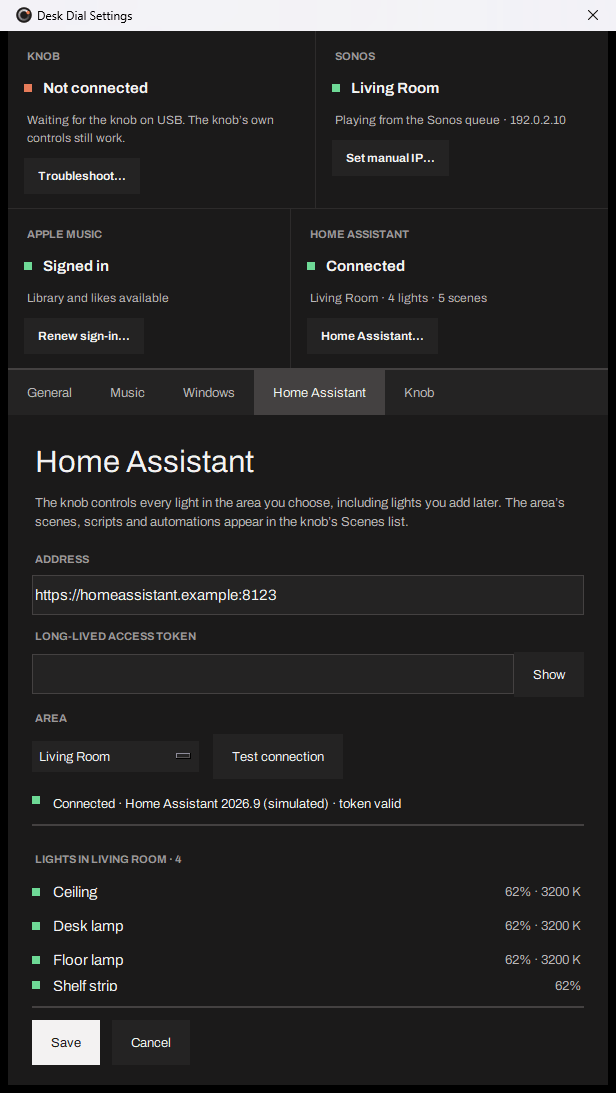
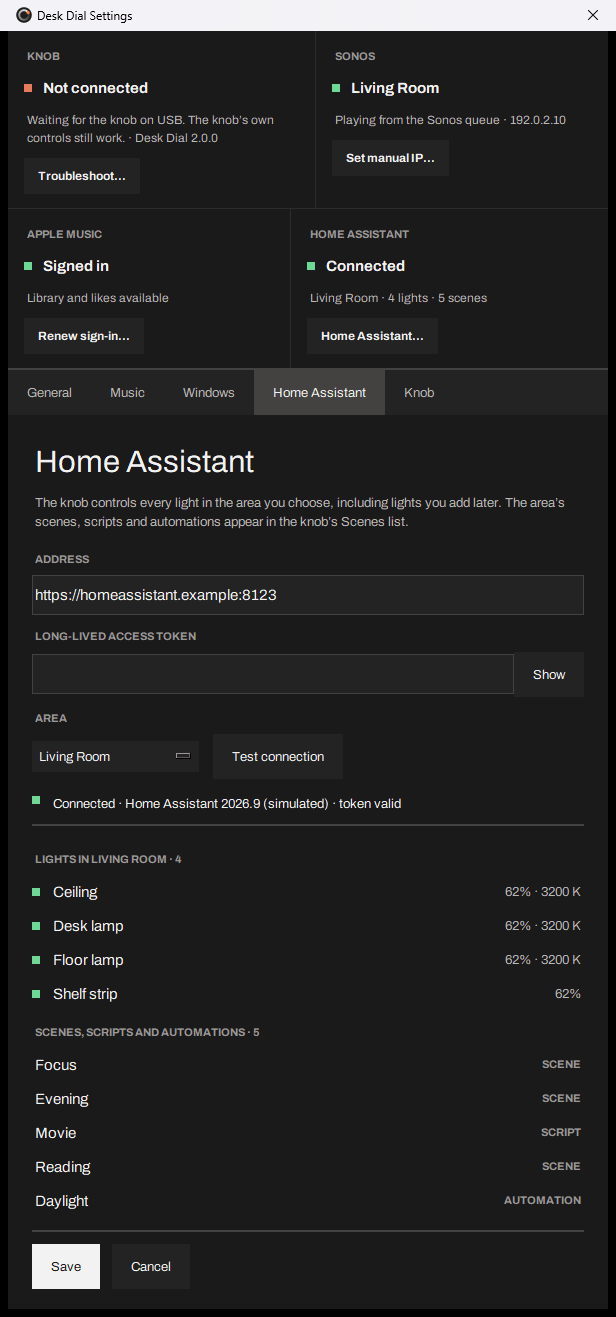
docs: Settings screenshots re-captured after the deep-dive fixes; obsolete 'being fixed' and Apple-first notes removed; Sonos room behaviour described

diff --git a/docs/features/settings.md b/docs/features/settings.md
@@ -24,7 +24,7 @@ The Navigator is the small glass card at the left edge of your main monitor that
 <p><img src="../media/settings-music.png" alt="Desk Dial Settings, Music page: the speaker IP, Apple Team ID and MusicKit Key ID fields with placeholder values, Choose .p8 key, Album artwork On, Authorize Apple Music" width="420"></p>
 **Speaker IP** · a text field · default a placeholder address
 
-The IPv4 address of one Sonos speaker on your network, for example 192.0.2.20. You find it in the Sonos app under the speaker's About settings. Desk Dial controls the group that speaker belongs to. There is no discovery: the address has to be typed. A changed address takes effect after you quit Desk Dial from the tray and open it again. (In this build the field's label still carries a room name from the author's own home; it is being generalised.)
+The IPv4 address of one Sonos speaker on your network, for example 192.0.2.20. You find it in the Sonos app under the speaker's About settings. Desk Dial controls the group that speaker belongs to. There is no discovery: the address has to be typed. A changed address takes effect after you quit Desk Dial from the tray and open it again.
 
 **Apple Team ID** · a text field
 
@@ -144,7 +144,6 @@ These are plain keys in `data\settings.json`. Edit the file while Desk Dial is n
 
 - Most changes need a reconnect or a restart; only album artwork, LEDs, Motion, the switcher background and Knob sounds apply at once.
 - No speaker discovery: the Sonos address is typed by hand, and a changed address needs a restart.
-- Being fixed: a default room identifier in the settings makes a different Sonos household fail with "The selected Sonos room is no longer available".
 - The speaker field is still labelled with the author's room name.
 - The Home Assistant token travels unencrypted over `http://`; Settings warns about it but still allows it.
 - Recalibrate motor is not yet tested on real hardware.

diff --git a/docs/setup/sonos.md b/docs/setup/sonos.md
@@ -31,7 +31,7 @@ Desk Dial does not search the network for speakers. You type the address yoursel
 3. Type the address in the speaker IP field at the top. It must be a valid IP address; otherwise Save refuses with "Enter a valid speaker IP and each index 0, 1, 2, 3 once."
 4. Click Save.
 
-A speaker change does not take effect straight away. The note under Save says so: quit Desk Dial from the tray and open it again. After that, the new speaker is used.
+Once the speaker answers, Desk Dial remembers which room it is, and forgets that room as soon as you change the address, so the new speaker's room is learned instead. A speaker change does not take effect straight away. The note under Save says so: quit Desk Dial from the tray and open it again. After that, the new speaker is used.
 
 Your speaker IP is kept in plain text in `%LOCALAPPDATA%\DeskDial\data\settings.json`. No password or account is needed for Sonos, so none is stored.
 
@@ -63,7 +63,6 @@ Nothing to open. Desk Dial only makes outgoing connections to the speaker and as
 
 ## Limits and known issues
 
-- **Being fixed:** the current build ships with the author's own speaker pinned by its Sonos identity. On another household this makes the knob report "The selected Sonos room is no longer available" instead of using the address you typed. The fix removes the pinned identity so the typed address is used as intended.
 - There is no speaker discovery. You must find and type the address yourself, and if your router hands the speaker a new address the knob stops working until you update Settings.
 - A speaker change needs a restart of Desk Dial (quit from the tray, open again).
 - One speaker group at a time. Other groups are not shown and cannot be chosen from the knob.

diff --git a/docs/setup/apple-music.md b/docs/setup/apple-music.md
@@ -88,7 +88,6 @@ When Apple refuses the user token, Desk Dial shows **Sign-in expired** in the Se
 ## Limits and known issues
 
 - **The only thing Desk Dial writes to Apple Music is Like.** It adds the song to your Favourites. There is no Unlike: Apple refused that request for this kind of sign-in, so Desk Dial does not even contain the code for it. On a song you already liked, the knob says **Unfavourite in Music app**; do it there.
-- **Re-authorising with a new .p8 key clears the saved Home Assistant token.** Choosing a key file and pressing Authorize replaces the whole credential file with the new Apple credentials, so a Home Assistant token stored there is lost and you must enter it again in Settings › Home Assistant. Pressing Authorize *without* choosing a new key file keeps everything. Set up Apple Music first, then Home Assistant.
 - **Apple's consent page needs an internet connection** to load Apple's MusicKit script. If the page says "Apple Music could not load", check your connection and retry.
 - **One account per PC.** Desk Dial stores one set of Apple credentials. Authorising with another Apple ID replaces the first.
 - **Windows only.** The encrypted store uses Windows DPAPI; there is no equivalent on other systems.

diff --git a/docs/media/README.md b/docs/media/README.md
@@ -51,11 +51,11 @@ Rendered by `tools/readme-media/render_all.py` from fictional data (see `tools/r
 | navigator.webp | 1,193,242 | 1120x630 | 185 | 13.54 |
 | onshape-knob.gif | 172,718 | 418x484 | 55 | 5.8 |
 | onshape-knob.webp | 200,518 | 418x484 | 75 | 7.73 |
-| settings-general.png | 16,606 | 616x890 | 1 |  |
-| settings-home-assistant.png | 22,597 | 616x1093 | 1 |  |
-| settings-knob.png | 25,940 | 616x1392 | 1 |  |
-| settings-music.png | 18,905 | 616x1093 | 1 |  |
-| settings-windows.png | 15,260 | 616x1093 | 1 |  |
+| settings-general.png | 17,229 | 616x890 | 1 |  |
+| settings-home-assistant.png | 26,049 | 616x1317 | 1 |  |
+| settings-knob.png | 26,291 | 616x1392 | 1 |  |
+| settings-music.png | 19,131 | 616x1093 | 1 |  |
+| settings-windows.png | 15,520 | 616x1093 | 1 |  |
 | social-preview.png | 61,863 | 1280x640 | 1 |  |
 | sound-bank-dark.png | 63,263 | 1100x674 | 1 |  |
 | sound-bank.png | 59,148 | 1100x674 | 1 |  |

diff --git a/docs/setup/home-assistant.md b/docs/setup/home-assistant.md
@@ -95,6 +95,5 @@ Everything else in Desk Dial works without it: music, the Windows picker and Ons
 - **One area, lights only.** Switches, covers, fans and media players in the area are ignored. Colour (hue) is not controlled, only brightness and colour temperature.
 - **Plain http sends the token unencrypted** on your local network. Settings warns about it; use https where you can.
 - **Self-signed certificates are rejected.** Certificate checking is always on and there is no override. Use a trusted certificate or http on a network you trust.
-- **Re-authorising Apple Music with a new .p8 key erases the saved Home Assistant token.** You will see **Token rejected** or **Not connected** afterwards; paste the token again and Save. Set up Apple Music first.
 - **At most 20 scenes** are listed.
 - The project is tested on one knob (the author's) against one Home Assistant installation.

diff --git a/docs/faq.md b/docs/faq.md
@@ -118,7 +118,6 @@ Never attach anything from `data\`, `backups\` or the `credentials.bin` file. Th
 - Windows 10/11 only.
 - Exactly one knob per PC.
 - The offline Windows-volume mode of the firmware has not yet been tested on real hardware.
-- Sonos: a built-in default for the speaker's room can make other households fail with "The selected Sonos room is no longer available". This is being fixed.
 - Onshape: Chrome and Edge only; keyboard shortcuts are sent as US-layout virtual keys, so other keyboard layouts are unverified.
 - The program is unsigned; SmartScreen warns on the first start and Smart App Control may block it.
 - The Home Assistant token crosses your network unencrypted when the address starts with `http://`; Settings shows a warning under the address when it does.

diff --git a/README.md b/README.md
@@ -271,7 +271,6 @@ Full list in the [CHANGELOG](CHANGELOG.md).
 ## Limits and known issues
 
 - Tested on one knob, mine. Other knobs may need "Recalibrate motor"; that path is not yet tested on real hardware.
-- Sonos: a default room id can make a different household fail with "The selected Sonos room is no longer available" — being fixed.
 - Home Assistant over `http://` sends the token unencrypted on your network (Settings warns about it); self-signed `https://` is not yet tested on real hardware.
 - The exe is unsigned; Smart App Control can block it. No installer, auto-start or uninstaller ships today.
 - Onshape: Chrome and Edge only; tilt direction, tool search hits and non-US keyboard layouts are unverified; shortcuts are sent as US virtual keys.

diff --git a/docs/features/music.md b/docs/features/music.md
@@ -208,5 +208,4 @@ Every line the knob can show in Music, in one sentence each.
 - Playlists shows only playlists you have favourited in Apple Music.
 - Sonos is polled once a second, so a change made in the Sonos app can take up to a second to reach the knob.
 - Desk Dial controls one speaker's group, chosen by address. There is no speaker discovery and no room picker.
-- Being fixed: a default room identifier left in the settings makes a different Sonos household fail with "The selected Sonos room is no longer available".
 - Album covers on the knob need Settings › Music › Album artwork On and are cached in memory only.
